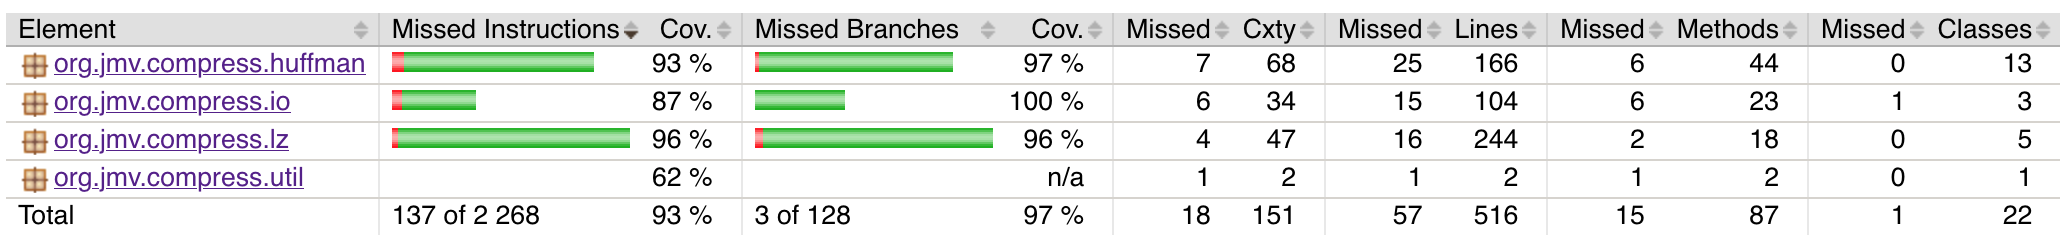
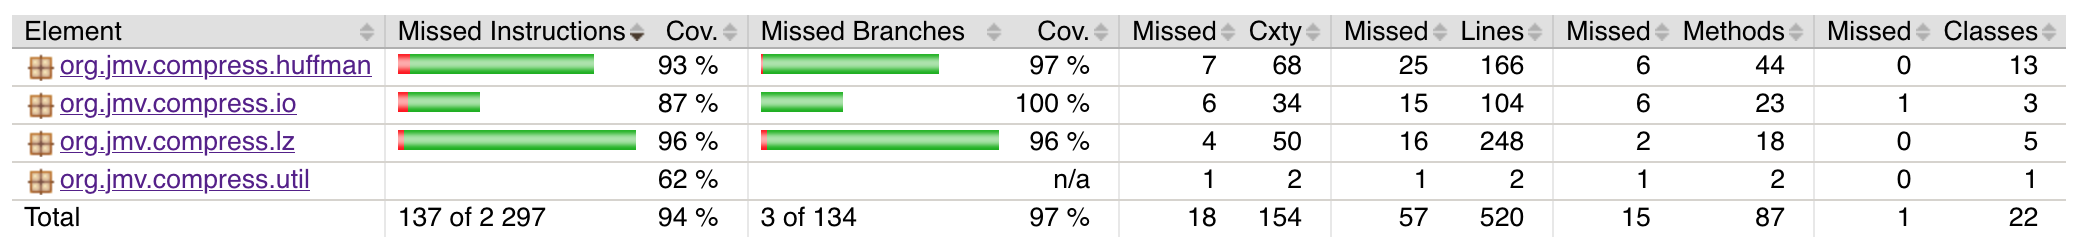
dokumentaatiota

Changed region(s): [[0.0, 0.0287, 1.0, 0.9467]]

diff --git a/compress/src/main/java/org/jmv/compress/lz/HashChain.java b/compress/src/main/java/org/jmv/compress/lz/HashChain.java
@@ -105,26 +105,29 @@ public final class HashChain {
         final int insh = hash(buffer, pos);
         int next = head[insh];
 
-        // matchPosition = 0;
-        // matchLength = 0;
-
         final int windowBegin = pos - windowLength;
         int found = 0;
         int longestMatch = 0;
         int matchPos = 0;
+        // Tutki mahdollisia osumia kunnes ikkuna loppuu tai osumia on
+        // tarkistettu tarpeeksi monta.
         while (next > windowBegin && found < matchLimit) {
-            // final int length = findMatchLength(buffer, pos, next);
+            // Hae osuman pituus.
             final int length = findMatchLength(buffer, pos, next, longestMatch);
 
+            // Jos osuma on tarpeeksi pisin tähän asti kohdattu,
+            // päivitä tulosta.
             if (length > longestMatch) {
                 longestMatch = length;
                 matchPos = next;
             }
 
+            // Hae seuraava mahdollinen osuma.
             next = prev[next & windowMask];
             ++found;
         }
 
+        // Päivitä hajautustaulukkoa.
         prev[pos & windowMask] = head[insh];
         head[insh] = pos;
 

diff --git a/dokumentaatio/toteutusdokumentti.md b/dokumentaatio/toteutusdokumentti.md
@@ -140,40 +140,40 @@ jonka avulla aakkoston alkioille saadaan optimaaliset koodit.
 Huffman-puun rakentaminen tapahtuu seuraavasti:
 
 
-    Sisääntulo: taulukko S[1,[A]] missä kukin alkio sisältää (symboli,
-                symbolin paino)-parin.
+	Sisääntulo: taulukko S[1,[A]] missä kukin alkio sisältää (symboli,
+				symbolin paino)-parin.
 
-    Ulostulo: Huffman-puun juurisolmu
+	Ulostulo: Huffman-puun juurisolmu
 
 
-    Järjestä taulukko kasvavaan järjestykseen symbolien painojen mukaan.
+	Järjestä taulukko kasvavaan järjestykseen symbolien painojen mukaan.
 
-    Luo S:ästä linkitetty listä L missä i:nnes alkio säilöö (symboli,
-    symbolin paino, seuraava alkio, vasen lehti, oikea
-    lehti)-viisikon, missä seuraava alkio on on osoitin S[i + 1]
-    vastaavaan alkioon, ja lehdet ovat null-osoittimia.
+	Luo S:ästä linkitetty listä L missä i:nnes alkio säilöö (symboli,
+	symbolin paino, seuraava alkio, vasen lehti, oikea
+	lehti)-viisikon, missä seuraava alkio on on osoitin S[i + 1]
+	vastaavaan alkioon, ja lehdet ovat null-osoittimia.
 
-    I <- L (listan ensimmäinen alkio)
+	I <- L (listan ensimmäinen alkio)
 
-    while L.seuraava_alkio != null {
+	while L.seuraava_alkio != null {
 
-          Luo alkio N jolla N.vasen <- L:n pää, N.oikea <- L.seuraava, N.paino <- (L.paino + L.seuraava.paino)
+		  Luo alkio N jolla N.vasen <- L:n pää, N.oikea <- L.seuraava, N.paino <- (L.paino + L.seuraava.paino)
 
-          while (I.seuraava != null && I.seuraava.paino <= N.paino) {
+		  while (I.seuraava != null && I.seuraava.paino <= N.paino) {
 
-                I <- I.seuraava
+				I <- I.seuraava
 
-          }
+		  }
 
-          N.seuraava <- I.seuraava
+		  N.seuraava <- I.seuraava
 
-          I.seuraava <- N
+		  I.seuraava <- N
 
-          L <- L.seuraava.seuraava
+		  L <- L.seuraava.seuraava
 
-    }
+	}
 
-    palauta L
+	palauta L
 
 
 Huffman-puun rakentaminen on ahne algoritmi, joka poistaa aina listan
@@ -198,21 +198,21 @@ ja pitämällä kirjaa syvyydestä kunnes saavutaan lehtisolmuun.
 Prefiksi-koodit symboleille saadaan (symboli, koodin pituus)-pareista:
 
 
-    Sisääntulo: taulukko S[1,|A|] missä alkiot ovat (symboli, koodin pituus)-pareja
+	Sisääntulo: taulukko S[1,|A|] missä alkiot ovat (symboli, koodin pituus)-pareja
 
-    Ulostulo: taulukko (symboli, koodin pituus, koodi)-kolmikkoja
+	Ulostulo: taulukko (symboli, koodin pituus, koodi)-kolmikkoja
 
-    Järjestä S koodien pituuksien mukaan
+	Järjestä S koodien pituuksien mukaan
 
-    S[1].koodi <- 0
+	S[1].koodi <- 0
 
-    for (i <- 2 to |S|) {
+	for (i <- 2 to |S|) {
 
-        S[i].koodi <- S[i - 1].koodi + 1 << (S[i].pituus - S[i - 1].pituus)
+		S[i].koodi <- S[i - 1].koodi + 1 << (S[i].pituus - S[i - 1].pituus)
 
-    }
+	}
 
-    palauta S
+	palauta S
 
 
 Järjestäminen huomioimatta prefiksikoodaus vie lineaarisesti aikaa
@@ -255,15 +255,15 @@ aputaulukkojen rakentamista, joten sen aikavaativuus on O(|A| log
 Yhden symbolin dekoodaus sisääntulosta tapahtuu seuraavasti:
 
 
-      N <- h verran bittejä sisääntulosta
+	  N <- h verran bittejä sisääntulosta
 
-      Etsi binäärihakua käyttäen i siten että (N < C[i+1] << (h - i - 1)) ja (N >= C[i] << (h - i))
+	  Etsi binäärihakua käyttäen i siten että (N < C[i+1] << (h - i - 1)) ja (N >= C[i] << (h - i))
 
-      N <- (N >> h - i)
+	  N <- (N >> h - i)
 
-      Siirry i eteenpäin sisääntulossa
+	  Siirry i eteenpäin sisääntulossa
 
-      Palauta L[F[i] + N - C[i]]
+	  Palauta L[F[i] + N - C[i]]
 
 
 Koska dekoodaus käyttää binäärihakua, sen aikavaativuus on O(log h) = O(log log n).
@@ -280,29 +280,29 @@ log log n).
 Lempel-Ziv-pakkaaminen käsittelee sisääntulon seuraavasti:
 
 
-    i <- 1
+	i <- 1
 
-    while (i <= size) {
+	while (i <= size) {
 
-        Hae pisin osuma ennen i:tä enintään ikkunan pituuden päästä
+		Hae pisin osuma ennen i:tä enintään ikkunan pituuden päästä
 
-        offset <- -(pisimmän osuman indeksi - i)
+		offset <- -(pisimmän osuman indeksi - i)
 
-        if (osuman pituus < minimi pituus) {
+		if (osuman pituus < minimi pituus) {
 
-            Laita nollabitti ja nykyisellä kohdalla oleva symboli ulostuloon
+			Laita nollabitti ja nykyisellä kohdalla oleva symboli ulostuloon
 
-            i <- i + 1
+			i <- i + 1
 
-        } else {
+		} else {
 
-            Laita ykkösbitti ja (offset, osuman pituus)-pari ulostuloon
+			Laita ykkösbitti ja (offset, osuman pituus)-pari ulostuloon
 
-            i <- i + pituus
+			i <- i + pituus
 
-        }
+		}
 
-    }
+	}
 
 
 Naiivisti toteutettu Lempel-Ziv-pakkaaja kävisi aina osumaa etsiessä
@@ -311,6 +311,14 @@ missä n on syötteen pituus. Liukuvaa ikkunaa käytettäessä pakkaaja
 etsii osumia enintään ikkunan pituuden päästä nykyisestä kohdasta,
 joten jos w olisi ikkunan pituus, niin aikavaativuus olisi O(nw).
 
+
+Tässä toteutuksessa ikkunasta haetaan osumia hajautustaulukon avulla.
+Syötteessä kohdatut kolmen pituiset merkkijonot hashataan, ja hashin
+taakse ketjutetaan hashatun pätkän indeksi ikkunassa. Ketjusta
+tarkistetaan jokin rajattu määrä osumia, jonka jälkeen nykyinen kohta
+laitetaan ketjun päähän. Asymptomaattisesti ikkunan pituus dominoi
+kuitenkin tarkistettavien osumien lukumäärää, joten aikavaativuus on
+edelleen O(nw).
 
 Liukuvaa ikkunaa käyttävän Lempel-Ziv-pakkaamisen tilavaativuus on
 O(w) koska sen täytyy pitää muistissa ikkunan pituuden verran aiemmin
@@ -322,29 +330,29 @@ käsiteltyä syötettä.
 Lempel-Ziv-purkaminen tapahtuu seuraavasti:
 
 
-    i <- 1
+	i <- 1
 
-        while (i <= size) {
+		while (i <= size) {
 
-        Lue bitti b sisääntulosta
+		Lue bitti b sisääntulosta
 
-        if (b = 0) {
+		if (b = 0) {
 
-           Lue symboli ja laita se ulostuloon
+		   Lue symboli ja laita se ulostuloon
 
-           i <- i + 1
+		   i <- i + 1
 
-        } else {
+		} else {
 
-          Lue (offset, pituus)-pari sisääntulosta
+		  Lue (offset, pituus)-pari sisääntulosta
 
-          Kopioi kohdasta (i  - offset) pituuden verran merkkejä ulostuloon
+		  Kopioi kohdasta (i  - offset) pituuden verran merkkejä ulostuloon
 
-          i <- i + pituus
+		  i <- i + pituus
 
-        }
+		}
 
-    }
+	}
 
 
 Purkamista varten sisääntulo täytyy käydä kerran läpi, ja kopioiminen

diff --git a/dokumentaatio/testausdokumentti.md b/dokumentaatio/testausdokumentti.md
@@ -59,6 +59,10 @@ DNA:ta, toinen on englannin kielistä tekstiä, ja kolmas on XML-kieltä.
 
 ### Lempel-Ziv
 
+Lempel-Ziv-pakkaamisessa ikkunan pituutena käytettiin 2^15 merkkiä,
+osuman vähimmäispituutena 3 merkkiä, enimmäispituutena 258 merkkiä, ja
+enimmillään tarkistettavien osumien lukumääränä 128.
+
 Lempel-Ziv-pakkauksella DNA-tiedoston sai pakattua alle puoleen sen
 alkuperäisestä koosta. DNA-aakkosto on rajattu, joten on todennäköistä
 että DNA-merkkijonosta löytyy toistuvia alimerkkijonoja. Lempel-Ziv
@@ -80,6 +84,7 @@ alkuperäisestä koosta.
 Lempel-Ziv suoriutuu purkamisessa tasaisesti ja kaikista parhaiten. Se
 on algoritmisesti hyvin yksinkertainen ja aikavaadivuudeltaan
 lineaariaikainen, joka näkyy ajoajoissa.
+
 
 ### Huffman
 
@@ -110,8 +115,18 @@ aakkosto sisältää todennäköisesti alfanumeeristen merkkien lisäksi
 erikoismerkkejä, ja merkkien jakauma on melko tasainen. Näin ollen
 Huffman-puu antaa melkein yhtäpitkiä koodeja kaikille symboleille.
 
-Isosta aakkostosta johtuen XML:än dekoodaus myös on hidasta.
+Isosta aakkostosta johtuen XML:än dekoodaus on myös hidasta.
 
+### LZHuffman
+
+LZHuffman toimii muuten kuten Lempel-Ziv-pakkaus, paitsi että se
+Huffman-koodaa literaalit. Sen tulokset eivät olleet kovin
+merkittävästi Lempel-Ziviä parempia, parhaimmillaan se paransi
+pakkausta noin prosentin verran.
+
+Purkaminen oli vain hieman hitaampaa kuin pelkällä Lempel-Zivillä.
+LZHuffman-tulokset antavat kuitenkin antoi hyvin osviittaa siitä että
+Lempel-Ziv löysi osumia parhaansa mukaan.
 
 
 ## Yksikkötestien kattavuus
